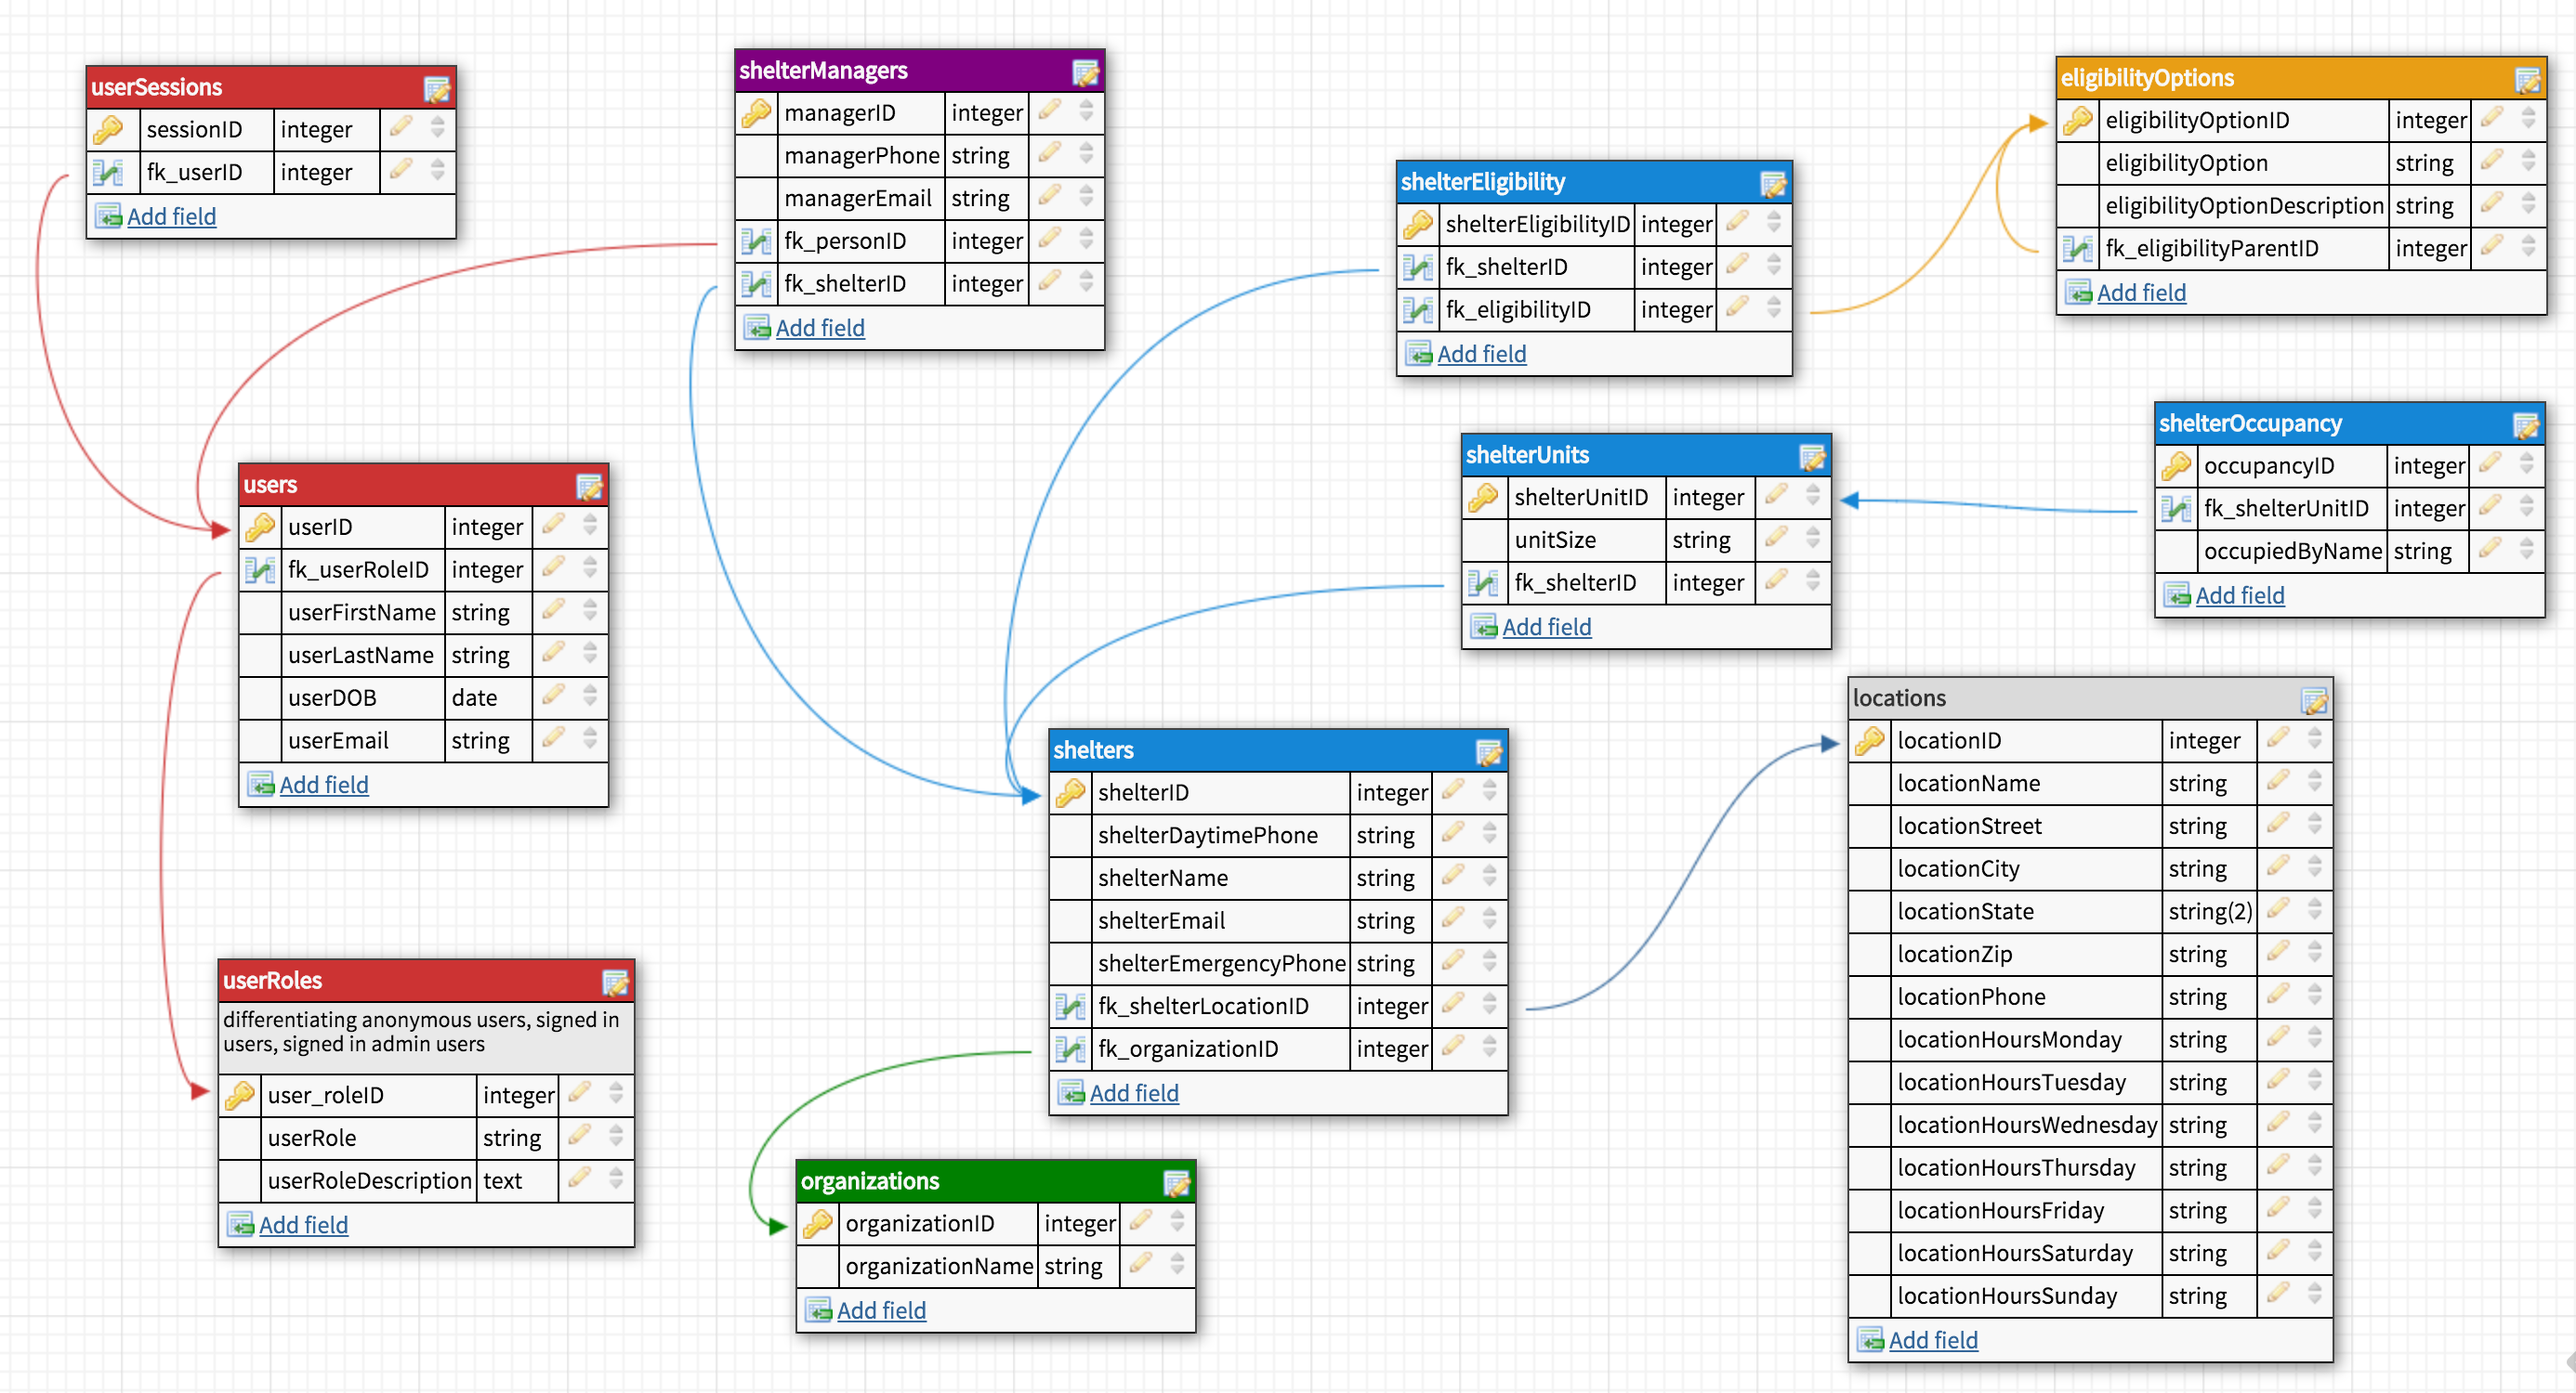
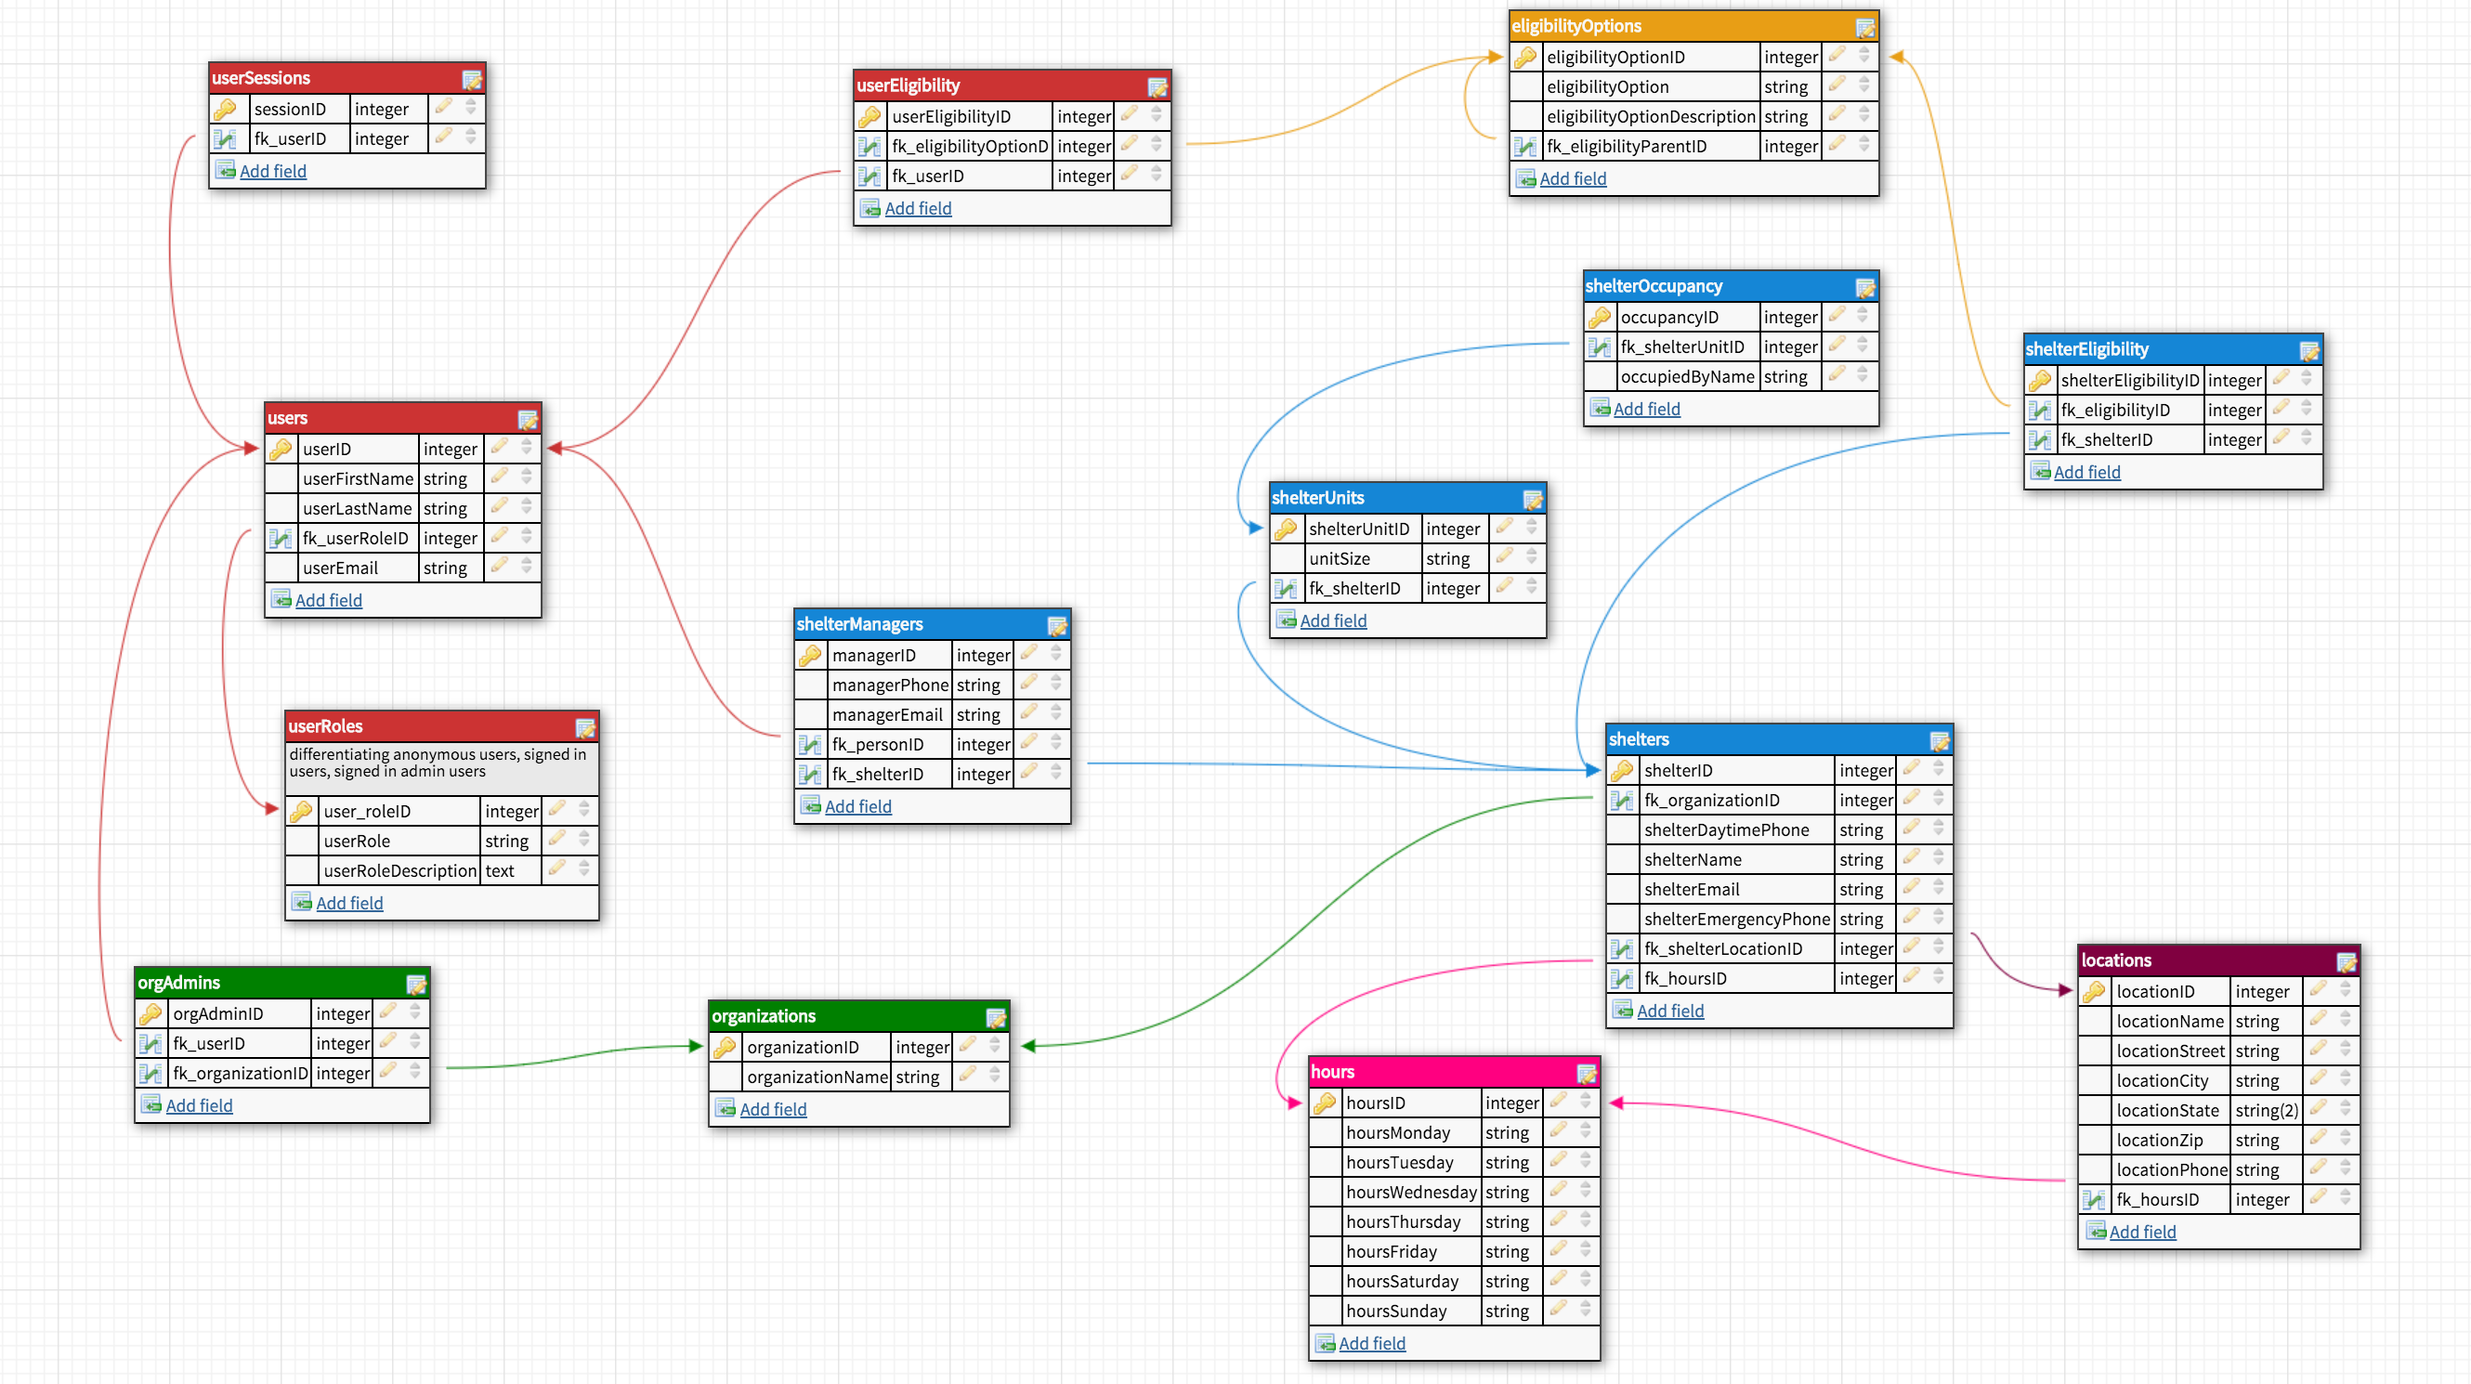
adding hours of operation as seperate table and including foreign key in related tables

diff --git a/migrations/20160307112542_opHours.js b/migrations/20160307112542_opHours.js
@@ -1,0 +1,60 @@
+
+exports.up = function(knex, Promise) {
+    return Promise.all([
+
+    knex.schema.createTable('hours', function(table){
+      table.increments('hoursID').primary();
+      table.string('hoursMonday').defaultTo('Open 24 hours');
+      table.string('hoursTuesday').defaultTo('Open 24 hours');
+      table.string('hoursWednesday').defaultTo('Open 24 hours');
+      table.string('hoursThursday').defaultTo('Open 24 hours');
+      table.string('hoursFriday').defaultTo('Open 24 hours');
+      table.string('hoursSaturday').defaultTo('Open 24 hours');
+      table.string('hoursSunday').defaultTo('Open 24 hours');
+    }),
+
+    knex.schema.table('shelters', function(table){
+      table.dropColumn('shelterHoursMonday');
+      table.dropColumn('shelterHoursTuesday');
+      table.dropColumn('shelterHoursWednesday');
+      table.dropColumn('shelterHoursThursday');
+      table.dropColumn('shelterHoursFriday');
+      table.dropColumn('shelterHoursSaturday');
+      table.dropColumn('shelterHoursSunday');
+      table.integer('fk_hourID').notNullable()
+              .references('hoursID')
+              .inTable('hours');
+    }),
+
+    knex.schema.table('locations', function(table){
+      table.dropColumn('locationHoursMonday');
+      table.dropColumn('locationHoursTuesday');
+      table.dropColumn('locationHoursWednesday');
+      table.dropColumn('locationHoursThursday');
+      table.dropColumn('locationHoursFriday');
+      table.dropColumn('locationHoursSaturday');
+      table.dropColumn('locationHoursSunday');
+      table.integer('fk_hourID').notNullable()
+              .references('hoursID')
+              .inTable('hours');
+    })  
+
+      ]);
+};
+
+exports.down = function(knex, Promise) {
+    return Promise.all([
+    knex.schema.dropTable('userRoles'),
+    knex.schema.dropTable('users'),
+    knex.schema.dropTable('shelterManagers'),
+    knex.schema.dropTable('organizations'),
+    knex.schema.dropTable('shelters'),
+    knex.schema.dropTable('shelterUnits'),
+    knex.schema.dropTable('shelterOccupancy'),
+    knex.schema.dropTable('userSessions'),
+    knex.schema.dropTable('locations'),
+    knex.schema.dropTable('orgAdmins'),
+    knex.schema.dropTable('userEligibility'),
+    knex.schema.dropTable('hours')
+  ]);    
+};
